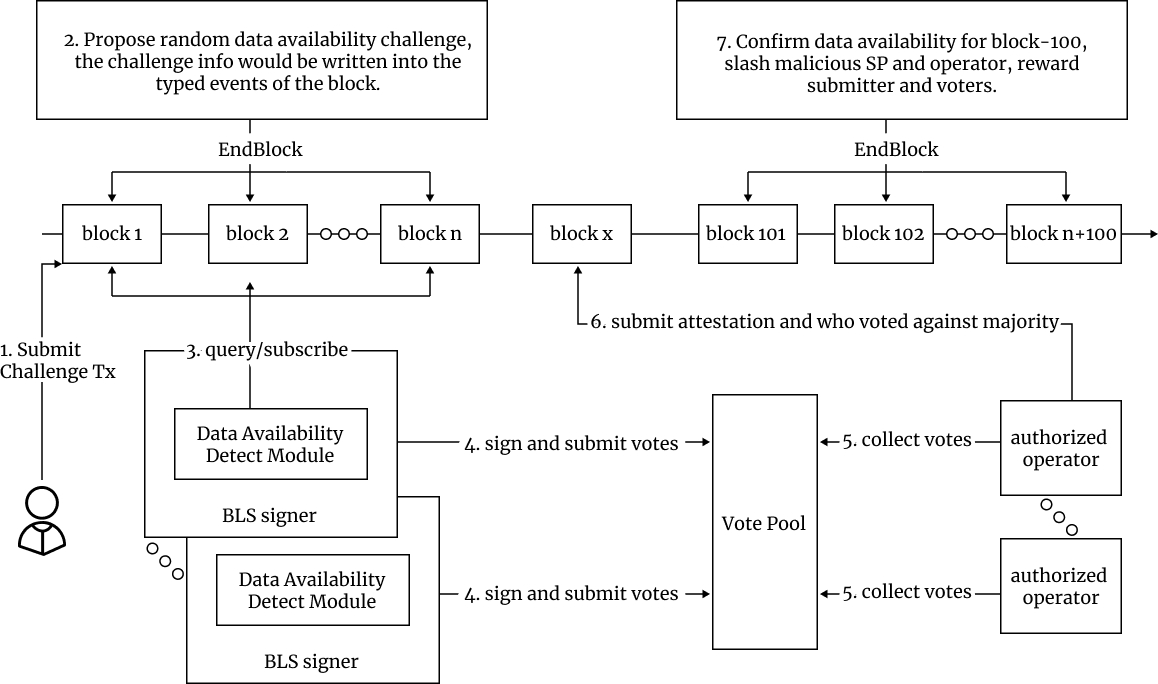
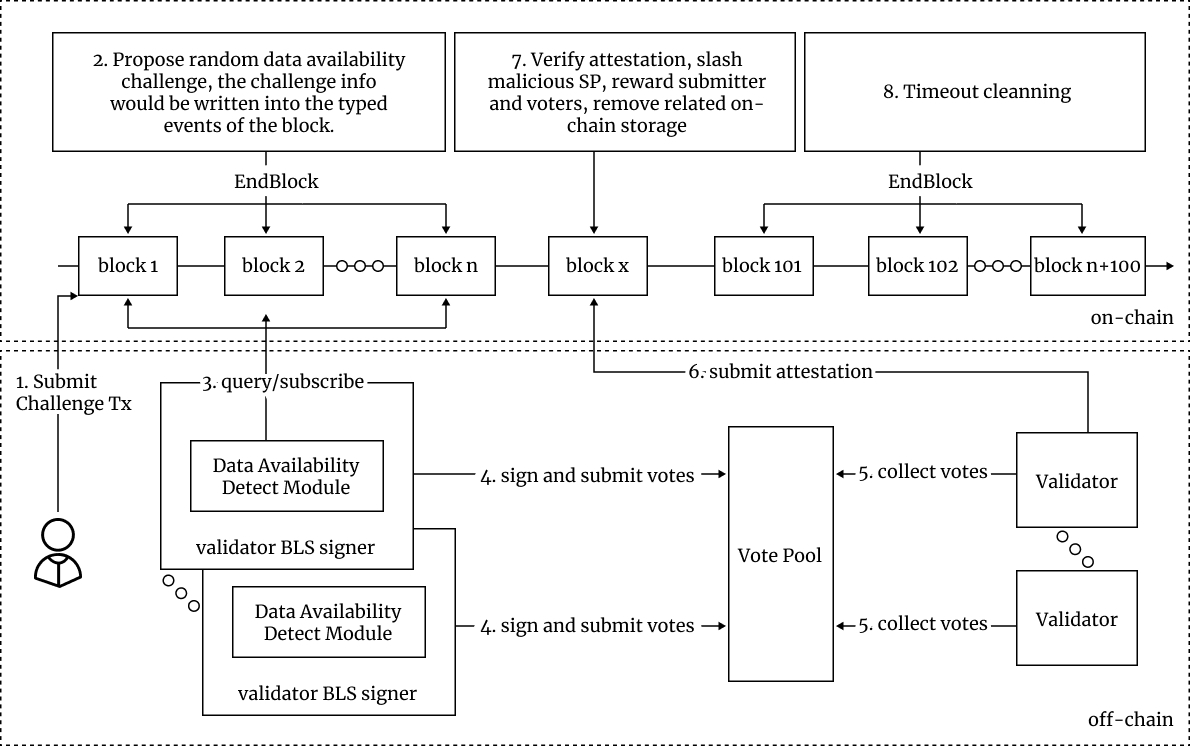
doc: fix some workflows about chapter16 and chapter19 (#3)
* review changes about chapter 16 and 19

* fix comments

* fix some wrong grammer

* fix comments

---------

diff --git a/part3.md b/part3.md
@@ -226,18 +226,19 @@ validator can be voted by the majority of the current validators to join
 in and gets elected as the active validator based on its delegation
 size. Here are the steps for becoming a new validator:
 
-1. Self-delegate
+1. Self-delegator grants delegate authorization to the gov module account. Delegate
+   authorization allows the grantee to execute MsgDelegate for the granter.
 
 2. Initiate a proposal to become a validator.
 
 3. Wait for the current validators to vote on this proposal.
 
-4. Once the proposal has passed, the new validator would be created automatically.
+4. Once the proposal has passed, the new validator will be created automatically.
 
 A validator may not always be a member of the active validator set,
 which will propose and produce blocks. Only the ones elected by the rank
 of delegation size will be the active validators. The election happens
-every block. The number of active validators is fixed and governed by
+every block. The maximum number of active validators is fixed and governed by
 the existing validators.
 
 It should be highlighted that the Greenfield validators are separated
@@ -253,11 +254,12 @@ organization can play two roles at the same time.
 
 #### 16.3.1 Create and Edit Validator
 
-To be a validator, the runner must self-delegate BNB, and then a
-proposal should be submitted to get votes from the existing validators.
-After the passing of the proposal, a transaction for creating the
-validator should be submitted. The self delegation is required, and the
-open delegation from other delegators will be also supported.
+To become a validator, the runner must grant the delegate authorization to the
+gov module account with enough BNB, and then a proposal should be
+submitted to get votes from the existing validators. After the proposal is passed,
+the self-delegation would be done by the gov module, and the validator
+would be created automatically. The self delegation is required,
+and open delegation from other delegators will also be supported later.
 
 The validator creation logic should be changed later to reduce the
 concern of Cartels.
@@ -273,9 +275,10 @@ type MsgCreateValidator struct {
     ValidatorAddress  string
     Pubkey            *types.Any
     Value             types.Coin
-    PoposalId         uint64
+    From              string
+    RelayerAddress    string
+    RelayerBlsKey     string
 }
-
 ```
 
 A validator can edit its description and commission by submitting an
@@ -290,6 +293,8 @@ type MsgEditValidator struct {
     ValidatorAddress  string
     CommissionRate    *github_com_cosmos_cosmos_sdk_types.Dec
     MinSelfDelegation *github_com_cosmos_cosmos_sdk_types.Int
+    RelayerAddress    string
+    RelayerBlsKey     string
 }
 ```
 
@@ -303,29 +308,19 @@ transaction rewards, and when validators change commission rates or
 quit, all the transaction rewards that are not withdrawn will also be
 distributed.
 
-In summary, the overall logic should be very similar to Cosmos 0.46,
-except following changes:
-
-1. a proposal is needed for creating a validator.
-
-2. only self-delegation is allowed in the early stage.
-
-3. no token mint/inflation in rewards.
-
 #### 16.3.3 Create Storage Provider
 
-Anyone can submit a storage provider creation proposal first, the current
-active validators can vote on this proposal. After this proposal passes,
-the new storage provider needs to submit a creating storage provider
-transaction to become a storage provider.
+To become a storage provider, the runner should submit a proposal, and the current
+active validators can vote on this proposal. Once the proposal is passed, the
+new storage provider will be created automatically.
 
 Greenfield separates the roles of validator and storage providers.
 Although it is natural for the validators to maintain a meaningful and
 healthy number of storage providers, there should still be incentives
 for the validators to manage a reasonable number of SPs. Validators
-would get more data challenge rewards if there are more storage
-providers, the payment flow that is used for data challenge rewards
-would be like:
+will get more data challenge rewards if there are more storage
+providers. The payment flow that is used for data challenge rewards
+would be like this:
 
 $$ data challenge reserves = (1 - \frac{1}{SP Number + 1}) * Maximum Percent $$
 
@@ -333,16 +328,17 @@ Data availability challenge will be covered in the later section.
 
 #### 16.3.4 Remove Storage Provider
 
-Anyone can submit a proposal to remove a storage provider, for the
+Anyone can submit a proposal to remove a storage provider for the
 storage provider doesn't provide a good service or prefers to stop
-service. The current active validators can vote on this proposal. After
-this proposal passes, other SPs or the data owners should start
-requesting to move the data off this "to-be-removed" SP. The
-"to-be-removed" SP has to facilitate the data moving so that it can get
-the full deposit back and no further slash. Actually, even if it chooses
-to not cooperate, the data can be recovered from the other SPs. After
-all the data has been migrated, anyone can submit a removal storage
-provider transaction to remove the storage provider.
+service. The current active validators can vote on this proposal. Once this
+proposal is passed, the SP will be restricted from accepting new object-storing
+requests, but still has the obligation to serve query requests. Other
+SPs or the data owners should start requesting to move the data off
+this "to-be-removed" SP. The "to-be-removed" SP has to facilitate the data
+moving so that it can get the full deposit back and avoid further slash.
+Actually, even if it chooses to not cooperate, the data can be recovered from
+the other SPs. After all the data has been migrated, this "to-be-removed" SP
+can withdraw all its deposit, and this SP would be removed.
 
 ## 17 Storage MetaData Models
 
@@ -667,24 +663,25 @@ guarantee data integrity and availability. Many of the existing
 solutions rely on intensive computing to generate proofs. However,
 Greenfield chooses the path of social monitoring and challenges.
 
-The holistic targets for Greenfield to ensure the storage provider(SP)
-stores the data as expected are as the below:
+The holistic target for Greenfield is to ensure that the storage provider(SP)
+stores the data as expected are as below:
 
-a. The primary SP stores the correct object that the user uploaded.
+a. The primary SP splits the original object that the user uploads into
+segments correctly.
 
-b. The SP stores assigned pieces either as the role of primary SP or
-secondary SP correctly, and the data pieces stored should not be
-corrupted or falsified.
+b. The primary SP encodes the segments into redundant Erasing Code pieces
+correctly, and distributes them to the secondary SP as agreed.
 
-c. The redundant Erasing Code pieces stored in the secondary SPs can
-recover the original segment stored in the primary SP.
+c. The SP stores assigned pieces either as the role of primary SP
+or secondary SP correctly, and the data pieces stored should not be corrupted
+or falsified.
 
 A user needs to ensure that the object stored on Greenfield is really
 his object without downloading the whole object and comparing the
-contents. And also each SP should store the correct piece for each
-object as required and this information should be verified on the
+contents. And also, each SP should store the correct piece for each
+object as required, and this information should be verified on the
 Greenfield blockchain. A special metadata structure is introduced for
-every object for data challenges as the below:
+every object for data challenges as below:
 
 ```go
 type ObjectInfo struct {
@@ -699,7 +696,7 @@ Each storage provider will keep a local manifest for the pieces of each
 object that are stored on it. For the primary SP, the local manifest
 records each segment's hashes. The "*root*" field of the object's
 metadata in the above code stores the hash of the whole local manifest
-of the primary SP, e.g. it is the "*PiecesRootHash(SP0)*" in the below
+of the primary SP, e.g., it is the "*PiecesRootHash(SP0)*" in the below
 diagram. For the secondary SPs, the local manifest records each piece's
 hashes, and the hash of their local manifest files are recorded in the
 subRooList field in order, e.g. the 4th element of this list will store
@@ -744,13 +741,13 @@ the data in the data availability challenge as described below.
 <div align="center"><img src="./assets/19.2%20Data%20Availability%20Challenge.jpg"  height="80%" width="80%"></div>
 <div align="center"><i>Figure 19.2 Data Availability Challenge</i></div>
 
-This data availability challenge is illustrated in above figure 19.2.
+This data availability challenge is illustrated in figure 19.2 above.
 
 The Greenfield validators have the responsibility to verify the data
 availability from the SPs. They form a voting committee to execute this
 task by the incentive of fees and potential fines (slashes) on SPs.
 
-A multi-signing logic, e.g. BLS-based multi-sig, is used to reach
+A multi-signing logic, e.g., BLS-based multi-sig, is used to reach
 another level of off-chain consensus among the Greenfield validators.
 When the validator votes for the data challenge, they co-sign an
 attestation and submit on-chain.
@@ -759,8 +756,7 @@ The overall data availability challenge mechanism works as below:
 
 1. Anyone can submit a transaction to challenge data availability. The
    challenge information will be written into the on-chain event
-   triggered after the transaction is processed. This is the first
-   type of challenge.
+   triggered after the transaction is processed.
 
 2. The second way to trigger the challenge is more common: at the end
    of the block process phase of each block, Greenfield will use a
@@ -801,40 +797,38 @@ The overall data availability challenge mechanism works as below:
    block that contains the challenge, data challenge information, and
    the challenge result.
 
-5. The validators should collect data challenge votes, aggregates the
-   signatures, assembles data challenge attestation, and submits the
-   vote when there are more than 2/3 validators that have reached an
-   agreement, called "attestment". In order to solve the concern that
-   validators may just follow the others' results and not perform the
-   check themselves, a "commit-and-reveal" logic will be introduced.
+5. The data availability challenge votes are propagated through the p2p network.
 
-6. Any validator can submit the attestation with its own vote and
-   enough others' votes on-chain through a transaction and this data
-   challenge attestation transaction will be executed and update the
-   related states. The first validator who submits the attestation
+6. Once a validator collects an agreement from more than 2/3 validators, an
+   "attestment" is concluded. The validator can aggregate the signatures, assemble
+   data challenge attestation, and submit an attestation transaction. In order
+   to solve the concern that validators may just follow the others' results
+   and not perform the check themselves, a "commit-and-reveal" logic will be
+   introduced.
+
+7. The data challenge attestation transaction will be executed
+   on-chain. The first validator who submits the attestation
    can get a submission reward, while the later submission will be
    rejected. The more votes the submitter aggregates, the more reward
    it can get. Besides the submission rewards, there are attestment
    rewards too. Only the validators whose votes wrapped into the
    attestation will be rewarded, so it may be that some validators
-   voted, but their votes were not assembled by the validator, they
-   won't get rewarded for this data availability challenges. Also for
-   the different results, the rewards may be different: the
-   "unavailable" result that slashes the SPs will get validators more
-   rewards.
+   voted, but their votes were not assembled by the validator. They
+   won't get rewarded for these data availability challenges. Also, for
+   different results, the rewards will be different: the "unavailable"
+   result that slashes the SPs will get validators more rewards.
 
-7. After a number of blocks, for example, 100 blocks, it is time to
-   confirm the data availability challenge results even if the
-   submissions of attestments haven't arrived. In such a case, the
-   challenge will just expire with no further actions.
+8. After a number of blocks, for example, 100 blocks, the data availability
+   challenge will expire even if the submissions of attestments haven't
+   arrived. In such a case, the challenge will just expire with no further actions.
 
-8. Once a case of data availability is successfully challenged, i.e.
+9. Once a case of data availability is successfully challenged, i.e.
    the data is confirmed not available with quality service, there
    will be a cooling-off period for the SPs to regain, recover, or
    shift this piece of data.
 
-9. Once the cooling-off period time expires, this data availability can
-   be challenged again, if this piece of data is still unavailable,
+10. Once the cooling-off period time expires, this data availability can
+   be challenged again if this piece of data is still unavailable,
    the SP would be slashed again.
 
 ## 20 Storage Transactions
